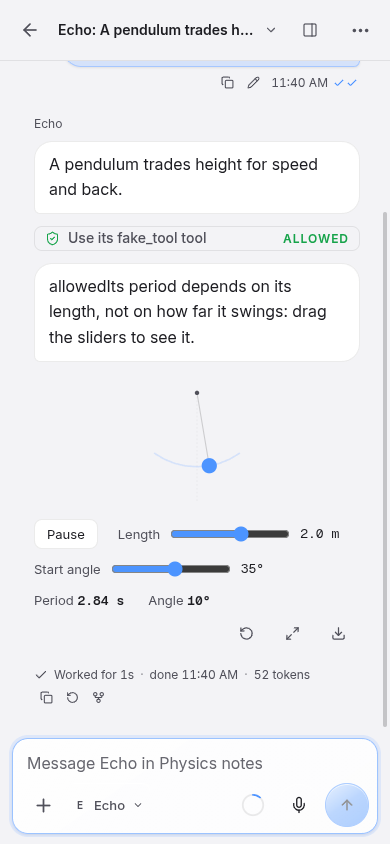
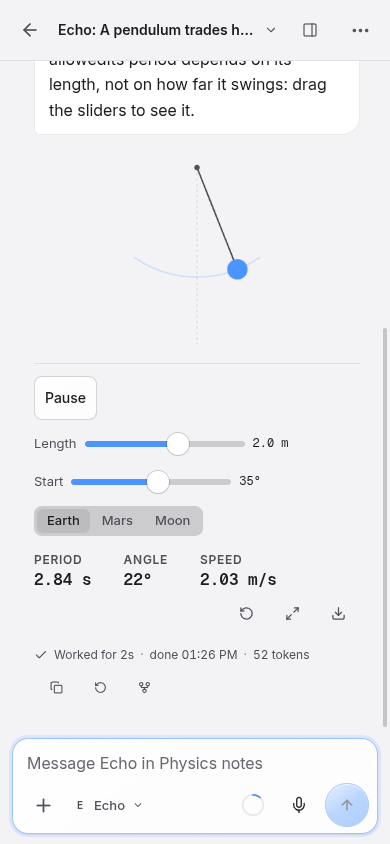
docs(chat): describe the views' kit, and raise the size budgets for it

diff --git a/docs/chat-files.md b/docs/chat-files.md
@@ -61,13 +61,49 @@ No setting turns it on, and the switch above does not turn it off.
 
 Captures: [a view on desktop](images/inline-view-desktop.png) · [the same on a phone](images/inline-view-phone.png)
 
+### The app's look
+
+A page looks like the app without the agent styling it. The bootstrap stored
+with each page carries a kit (`baseCss` in `packages/contracts/src/view.ts`)
+drawn from the app's own stylesheet:
+
+- Bare elements are the app's: text at the answer's size and face, `button`
+  with its `primary`, `ghost` and `small` variants, text fields, the slider
+  (`input[type=range]`, filled with the accent up to a round thumb), the switch
+  (`input[type=checkbox][role=switch]`), `progress`, tables with small caps
+  headers, `code`, `pre` and `kbd`.
+- A few classes give the pieces a visual is made of: `.row`, `.stack`, `.grid`
+  and `.card` for layout, `.controls` and `.field` for a row of controls under
+  a drawing, `.segmented`, `.stat`, `.chip`, `.legend` with `.key`, `.bar`,
+  and in SVG `.stroke`, `.fill`, `.node`, `.gridline`, `.baseline` and
+  `.guide`, which draw in the color set by `.accent`, `.muted` or `.series-1`
+  to `.series-8`.
+- The client hands the page the tokens of `VIEW_TOKENS` as this device
+  computes them: colors, the accent the reader picked, the series palette,
+  radii, text sizes, control heights, shadows, durations and the easing. A
+  theme, an accent or a motion setting changed in the app reaches a page
+  already on screen.
+
+Every rule of the kit is under `:where()`, so it weighs nothing: whatever a
+page says about the same element wins. The kit is a start and never a limit;
+a mock of somebody else's screen can ignore all of it.
+
+Three things push an agent toward it. `boite view help` explains the look in
+a few rules (quiet and flat, one accent, calm type, steps of 4, 2 px strokes)
+and lists the kit. `boite view example` prints a complete page that uses
+nothing else (`packages/core/src/view-example.ts`, the page in the captures
+above, published by the end-to-end test). And a publish answers with advice,
+which never refuses it: a color written as a value, which will not follow the
+reader's theme or accent, and a font of the page's own (`viewAdvice` in
+`packages/core/src/views.ts`).
+
 ### What the agent is told
 
 The guide every session starts with (`packages/core/src/agent-guide.ts`) has
 one line: the command, and that a request for a visual or a schema calls for
 it. `boite view help` prints the rest, read only by an agent about to write a
-page: the layout rules, the theme variables, how to animate and what the
-publish checks. Both texts are `VIEW_GUIDE_LINE` and `VIEW_HELP` in
+page: the layout rules, the app's look and its kit, the theme variables, how
+to animate and what the publish checks. Both texts are `VIEW_GUIDE_LINE` and `VIEW_HELP` in
 `packages/contracts/src/view.ts`, beside the code they describe.
 
 One file is one visual. Several visuals are several files, each published
@@ -92,8 +128,7 @@ an `.html` file inside the thread's working directory, and then:
    is missing, and an `<iframe>`. A link in an `<a>` is left alone.
 3. Puts a bootstrap at the start of the head, on the line the head opens on,
    so a script error still names the line of the agent's own file. It carries
-   the content policy, the app's look for bare elements and the bridge to the
-   client. A file with no doctype is given one: in quirks mode the root is as
+   the content policy, the kit above and the bridge to the client. A file with no doctype is given one: in quirks mode the root is as
    tall as its frame and the page could not report its own height.
 4. Stores the result as an artifact snapshot, as `boite attach` does, and
    loads it once in a headless browser of this machine
@@ -107,9 +142,9 @@ is stored or shown: the agent fixes the file and runs the command again. A
 page reaches the user only once it loaded cleanly. On a machine with no
 Chromium-based browser, or when it does not answer within 20 seconds, the
 page is published unchecked and the command says so; the browser started for
-the check is closed when that wait runs out. A checked publish of
-`tests/e2e/fixtures/views/pendulum.html` took 1.06 to 1.14 s over five calls
-of `artifacts.view` in a `bun test` loop, on Linux with Chrome, on 2026-10-07.
+the check is closed when that wait runs out. A checked publish of the
+page `boite view example` prints took 1.5 to 2.2 s over five calls of
+`artifacts.view` in a `bun test` loop, on Linux with Chrome, on 2026-10-07.
 
 The message is an `artifact` part with a `view` field: the title, the two
 heights and the file it came from. A client that does not know the field

diff --git a/docs/ci.md b/docs/ci.md
@@ -133,9 +133,9 @@ The tested installer becomes the release artifact.
 | Measure | Maximum uncompressed bytes |
 | --- | ---: |
 | UI entry chunk | 588,000 |
-| UI files, excluding `.br` and `.gz` copies | 4,290,000 |
+| UI files, excluding `.br` and `.gz` copies | 4,300,000 |
 | Core `dist/main.js` | 995,000 |
-| All emitted core JavaScript, including lazy chunks and workers | 3,640,000 |
+| All emitted core JavaScript, including lazy chunks and workers | 3,660,000 |
 
 The total JavaScript measure excludes native binaries and source maps. On
 2026-10-03, fresh builds of `e1f00a3` measured 2,695,204 core bytes and 3,932,309
@@ -145,14 +145,16 @@ dependency, loaded only by `boite mcp`; the UI gains 10,992 bytes for recovery,
 task history, capabilities and fork return. The entry sizes stayed below their
 unchanged limits. These are build sizes, not startup or memory measurements.
 
-Inline views measured 4,267,528 UI bytes and 3,617,293 emitted core JavaScript
-bytes on Linux on 2026-10-07, against 4,250,457 and 3,590,819 for `origin/main`
-at `ecf0fe68` built the same way, which was already 457 UI bytes above the
-previous 4,250,000 limit. The core gains 26,474 bytes: publishing a page, the
-headless check, and the text an agent reads with `boite view help`. The UI
-gains 17,071 bytes: the frame, the order of views in the timeline, and the
-page bootstrap, which the client chunk keeps because the fake client stores
-pages with it.
+Inline views measured 4,278,133 UI bytes and 3,643,439 emitted core JavaScript
+bytes on Linux on 2026-10-07, with `origin/main` at `d32a4a95` merged.
+`origin/main` at `ecf0fe68`, built the same way, measured 4,250,457 and
+3,590,819, already 457 UI bytes above the previous 4,250,000 limit, and
+merging `d32a4a95` added 6,423 core bytes to this branch. The core gains
+46,197 bytes of its own: publishing a page, the headless check, the kit
+stylesheet stored with each page, and the texts `boite view help` and
+`boite view example` print. The UI gains 27,676 bytes: the frame, the order of
+views in the timeline, and the kit and bootstrap, which the client chunk keeps
+because the fake client stores pages with them.
 
 Sizes and blurs for deferred pictures measured 3,587,361 emitted core bytes
 on Windows CI on 2026-10-06, 7,361 bytes above the previous 3,580,000 limit:

diff --git a/docs/cli.md b/docs/cli.md
@@ -254,7 +254,8 @@ boite stewards [set <thread> <project ...> [--all] [--can <a,b>] [--quiet] | rev
 boite steward                    this thread's steward grant
 boite attach <file>               publish a file snapshot in chat, at most 512 MB
 boite view <file.html>            draw the page at the end of the answer (--title <text>)
-boite view help                   the rules of a page: layout, theme, motion, checks
+boite view help                   the rules of a page: layout, the app's look, theme, motion, checks
+boite view example                a complete page in the app's look, to start from
 boite preview <file.html>          open a local HTML artifact and its neighbouring assets
 boite preview-close <file.html>    stop serving that preview
 boite show <file>[:line]         open the file in the panel, at that line
